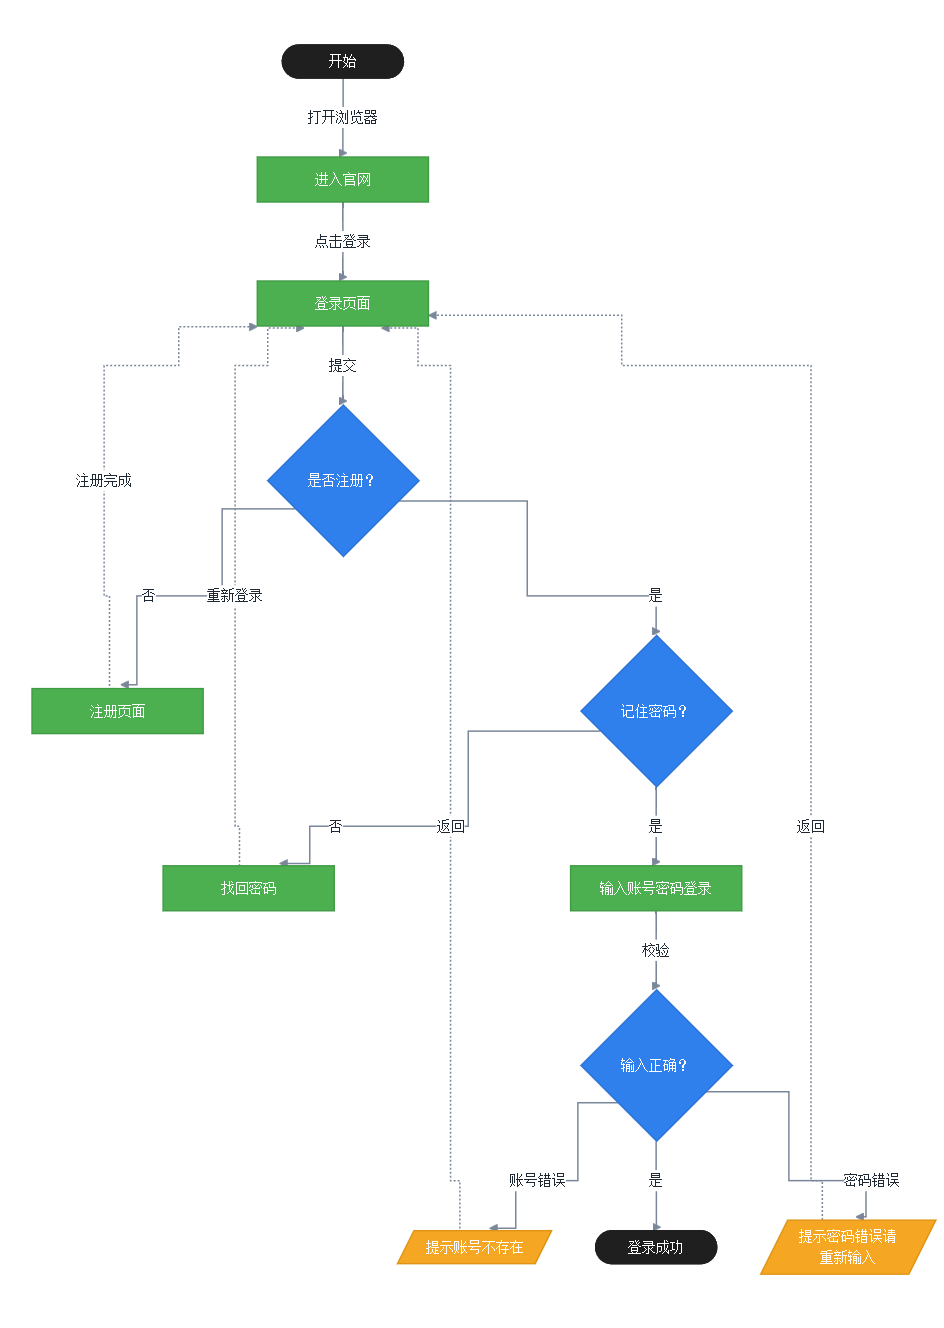
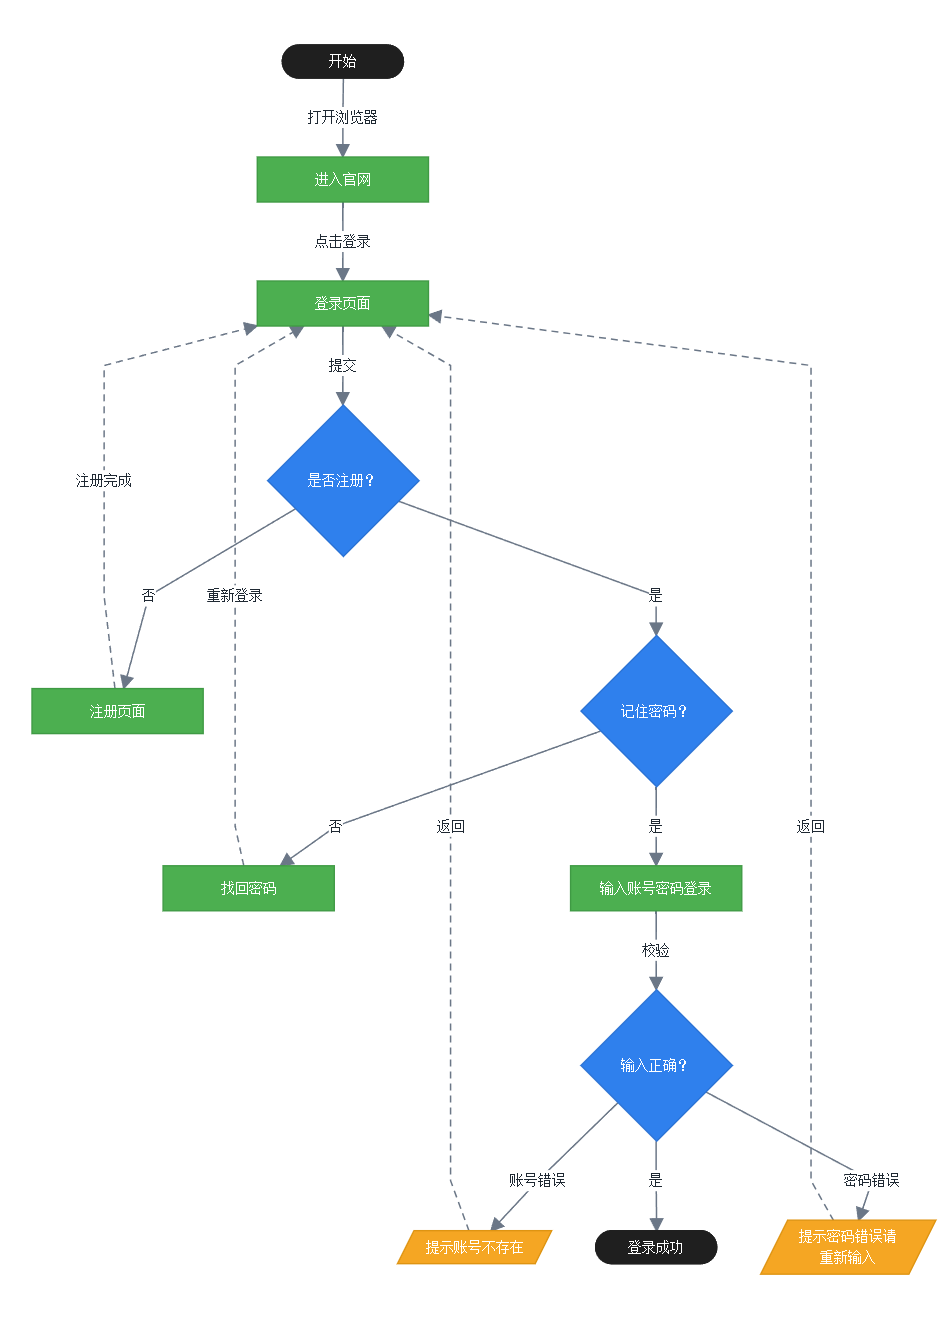
fix(mermaid,svg): 能直连就直连，去掉多余拐弯，箭头加粗放大
Mermaid
- curve 默认改为 linear：两点之间直接连直线，不再「先横再竖」绕一下
- 新增 mermaid_curve 开关（linear / stepAfter / step），要严格直角可切回
- themeCSS 把箭头放大 1.55 倍（默认 8px 小三角几乎看不见），回流边改长虚线
- 连线颜色 #7A8699 → #6B7787，白底上更清晰

SVG
- 回流边横移改走「行间空隙中线」(_row_gap_y)，不再用 n.y-16 拍脑袋偏移，
  避免线贴着同排菱形/方框边缘擦过去
- 同一空隙里多条回流边错开 10px，横段不再完全重叠
- 箭头 10px → 11px

文档与预览图同步更新

diff --git a/scripts/flowchart.py b/scripts/flowchart.py
@@ -81,7 +81,7 @@ DEFAULT_LABELS = {"默认", "其他", "其它", "else", "default", "剩余"}
 PALETTES = {
     # 标准彩色（默认）：对齐通用业务流程图 / 教材配色
     "standard": {
-        "canvas": "#FFFFFF", "ink": "#1F2933", "sub": "#4B5563", "edge": "#7A8699",
+        "canvas": "#FFFFFF", "ink": "#1F2933", "sub": "#4B5563", "edge": "#6B7787",
         "note": "#9AA3AF",
         "start_f": "#1F1F1F", "start_s": "#1F1F1F", "start_t": "#FFFFFF",
         "end_f": "#1F1F1F", "end_s": "#1F1F1F", "end_t": "#FFFFFF",
@@ -270,6 +270,8 @@ class Diagram:
         self.require_edge_labels = bool(spec.get("require_edge_labels", False))
         # Mermaid 标签是否允许内联 HTML（<br/> 换行、min-width 等宽）；渲染器不支持 htmlLabels 时关掉
         self.mermaid_html = bool(spec.get("mermaid_html", True))
+        # Mermaid 连线形态：linear = 直连（默认，不拐弯）；stepAfter / step = 正交折线
+        self.mermaid_curve = spec.get("mermaid_curve", "linear")
         self.nodes = []
         self.edges = []
         self.notes = []
@@ -514,8 +516,12 @@ class Diagram:
             ty = max(t.y + 8, min(t.y + t.h - 8, ty))
             if self._hits_node(s.x - 2, s.cy, lane, (s.id, t.id)):
                 # 左侧同排有符号挡路 → 先贴左缘进到行间空隙，再横移到车道
-                gy = s.y - 16 if ty < s.cy else s.y + s.h + 16
-                stub = s.x - 18
+                gy = self._row_gap_y(s, up=ty < s.cy)
+                if gy is None:
+                    gy = s.y - 16 if ty < s.cy else s.y + s.h + 16
+                # 同一空隙里有多条回流边时错开几像素，避免横段完全重叠
+                gy += (k - (n - 1) / 2) * 10
+                stub = s.x - 14
                 return [(s.x, s.cy), (stub, s.cy), (stub, gy), (lane, gy), (lane, ty), (t.x, ty)]
             return [(s.x, s.cy), (lane, s.cy), (lane, ty), (t.x, ty)]
         if abs(s.cx - t.cx) < 1:
@@ -540,6 +546,29 @@ class Diagram:
             if n.y - 1 < y < n.y + n.h + 1 and not (hi <= n.x or lo >= n.x + n.w):
                 return True
         return False
+
+    def _row_gap_y(self, n, up=True):
+        """取「本行与相邻行之间」空隙的中线 y。
+
+        回流边要横移时必须走行间空隙，不能用 n.y - 16 这种拍脑袋的偏移——
+        同排若有更高的符号（如菱形），16px 还在它内部，线会贴着框边擦过去。
+        """
+        rows = sorted({m.row for m in self.nodes})
+        if n.row not in rows:
+            return None
+        i = rows.index(n.row)
+        cur = [m for m in self.nodes if m.row == n.row]
+        if up:
+            if i == 0:
+                return n.y - 18
+            prev = [m for m in self.nodes if m.row == rows[i - 1]]
+            lo, hi = max(m.y + m.h for m in prev), min(m.y for m in cur)
+        else:
+            if i == len(rows) - 1:
+                return n.y + n.h + 18
+            nxt = [m for m in self.nodes if m.row == rows[i + 1]]
+            lo, hi = max(m.y + m.h for m in cur), min(m.y for m in nxt)
+        return (lo + hi) / 2 if hi > lo else (lo + 12 if up else hi - 12)
 
     def _place_notes(self):
         placed = []
@@ -681,8 +710,8 @@ class Diagram:
                     f'L{p_to[0] + b[0]*ln:.1f},{p_to[1] + b[1]*ln:.1f}" fill="none" '
                     f'stroke="{self.c["edge"]}" stroke-width="{self.cfg["edge_sw"]}" '
                     f'stroke-linejoin="miter" stroke-linecap="round"/>')
-        bx, by = p_to[0] - ux * 10, p_to[1] - uy * 10
-        px, py = -uy * 4.8, ux * 4.8
+        bx, by = p_to[0] - ux * 11, p_to[1] - uy * 11
+        px, py = -uy * 5.3, ux * 5.3
         return (f'<polygon points="{p_to[0]:.1f},{p_to[1]:.1f} '
                 f'{bx+px:.1f},{by+py:.1f} {bx-px:.1f},{by-py:.1f}" fill="{self.c["edge"]}"/>')
 
@@ -891,6 +920,15 @@ class Diagram:
         4. classDef 与 SVG 同色同线宽，边标签底色 = 画布色。
         """
         c = self.c
+        # 箭头：Mermaid 默认 8px 小三角、与线同色，缩略图里几乎看不见。
+        # 用 themeCSS 把 marker 放大 1.55 倍（transform-box 保证缩放基准在箭尖，不会被 marker 视口裁掉）。
+        theme_css = (
+            ".marker{overflow:visible}"
+            f".arrowMarkerPath{{fill:{c['edge']};stroke:{c['edge']};stroke-width:1px;"
+            "transform-box:fill-box;transform-origin:100% 50%;transform:scale(1.55)}"
+            # 回流边用长虚线，默认点线看着像「点点点」
+            ".edge-pattern-dotted{stroke-dasharray:7 5}"
+        )
         cfg = {
             "theme": "base",
             "themeVariables": {
@@ -901,8 +939,11 @@ class Diagram:
                 "primaryTextColor": c["ink"],
                 "primaryBorderColor": c["edge"],
             },
+            "themeCSS": theme_css,
             "flowchart": {
-                "curve": "step",
+                # linear：两点之间直接连线，不做多余拐弯（默认）
+                # stepAfter：只在目标端折一次直角；step 会在中间多折一次，长连线看起来扭来扭去
+                "curve": self.mermaid_curve,
                 "htmlLabels": True,
                 "useMaxWidth": False,
                 "nodeSpacing": 44,

diff --git a/SKILL.md b/SKILL.md
@@ -27,11 +27,11 @@ Mermaid 的默认渲染是圆角曲线 + 文字自适应宽度，跟标准流程
 
 | 处理 | 作用 |
 |---|---|
-| `curve: "step"` | 连线走正交折线，不再是贝塞尔曲线/斜线 |
+| `curve: "linear"` | 两点之间**直接连直线**，不做多余的绕行拐弯（默认）；要严格直角可改 `"mermaid_curve": "stepAfter"` |
 | `rankSpacing` / `nodeSpacing` | 行距 58、列距 44，框与框之间不挤 |
 | 标签按 SVG 规则换行（`<br/>`） | 长文字在框内折行，不会被拉成横条 |
 | 同类型 `min-width` 撑宽 | 流程框等宽、判定框等大、起止胶囊够宽 |
-| `classDef` 同色同线宽 | 黑起止 / 绿流程 / 橙数据 / 蓝判定 / 灰连线，与 SVG 完全一致 |
+| `classDef` + 箭头放大 1.55× | 黑起止 / 绿流程 / 橙数据 / 蓝判定 / 灰连线，箭头不再是 8px 小点 |
 
 目标渲染器不支持内联 HTML（`htmlLabels`）时，在 spec 里加 `"mermaid_html": false`，标签退回纯文本、单行。剩下唯一无法控制的是分支左右（Mermaid 用 dagre 自动排序，可能把「否」放左边）——这是 Mermaid 的固有限制，需要严格对齐时用 SVG。
 

diff --git a/README.md b/README.md
@@ -6,7 +6,7 @@
 
 *上图为 `assets/examples/login-standard.json` 的渲染结果：黑色胶囊起止、绿色流程、橙色数据、蓝色判定、灰色带标签连线，四条回流走左侧独立车道。*
 
-同一份 spec 输出的 Mermaid，渲染出来是这样（框等宽、连线正交、标签折行）：
+同一份 spec 输出的 Mermaid，渲染出来是这样（框等宽、能直连就直连、标签折行）：
 
 ![Mermaid 渲染](docs/preview-mermaid.png)
 
@@ -33,7 +33,8 @@ Mermaid 默认是圆角曲线 + 文字自适应宽度，渲染出来不像流程
 
 | 处理 | 效果 |
 |---|---|
-| `curve: "step"` | 连线走正交折线，不再是斜线/贝塞尔曲线 |
+| `curve: "linear"` | 能直连就直连，不绕行、不拐弯；要严格直角可设 `"mermaid_curve": "stepAfter"` |
+| 箭头放大 1.55× | 默认 8px 的小箭头放大到 12px，缩略图里也看得清 |
 | 标签 `<br/>` 折行 | 长文字按 SVG 同样规则换行，不被拉成横条 |
 | 同类型 `min-width` | 流程框等宽、判定框等大、起止胶囊够宽 |
 | `rankSpacing` / `nodeSpacing` | 行距列距拉开，框不贴线 |
